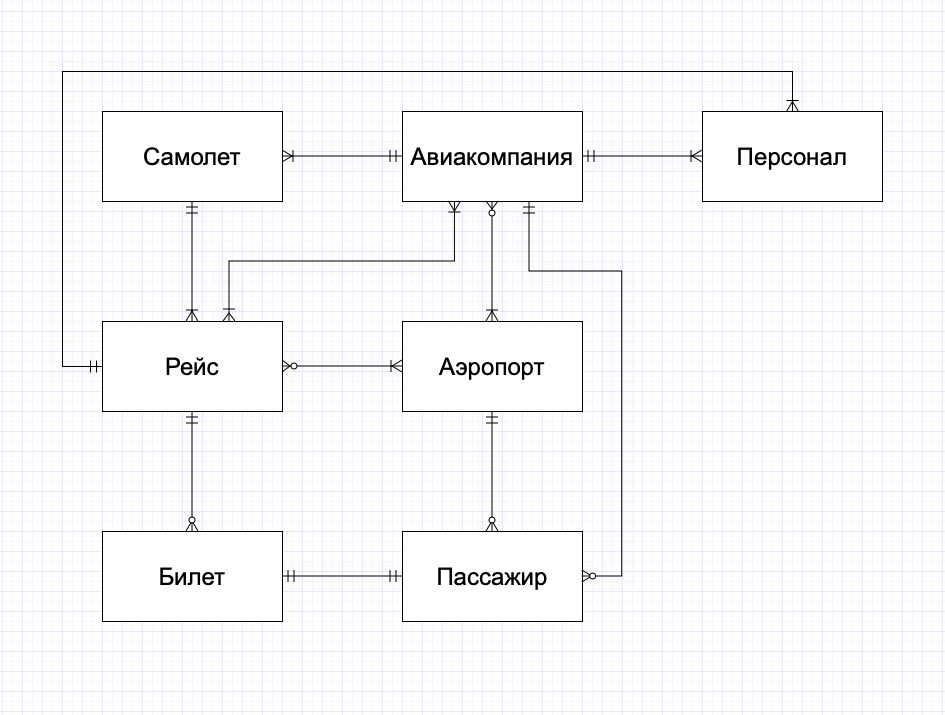
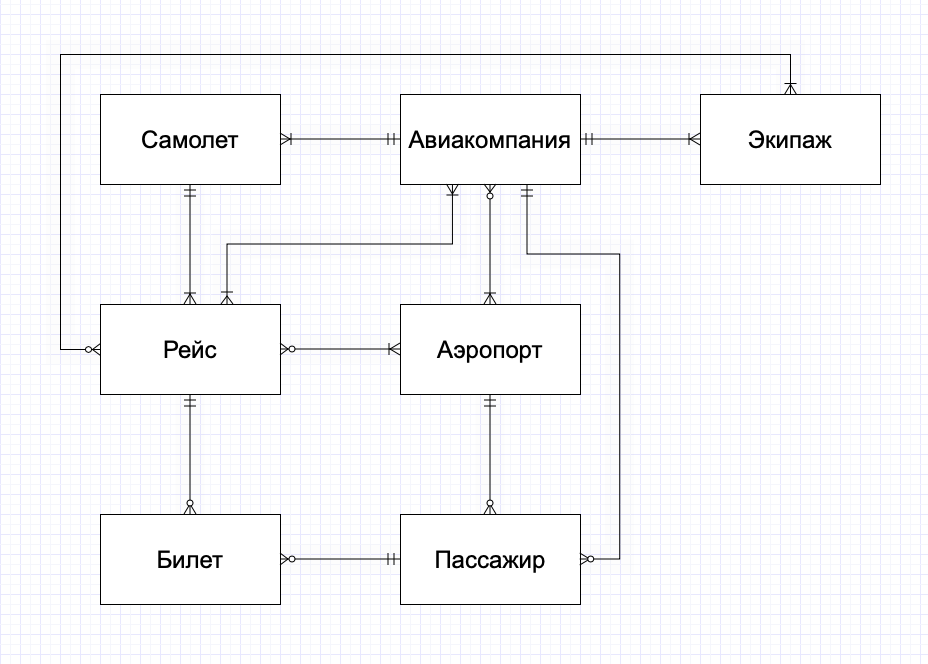
Fixed er-model

diff --git a/docs/er-model.md b/docs/er-model.md
@@ -11,7 +11,7 @@
 - Рейс
 - Билет
 - Авиакомпания
-- Персонал
+- Экипаж
 - Пассажир
 
 ## Визуальная картина в ER-нотации
